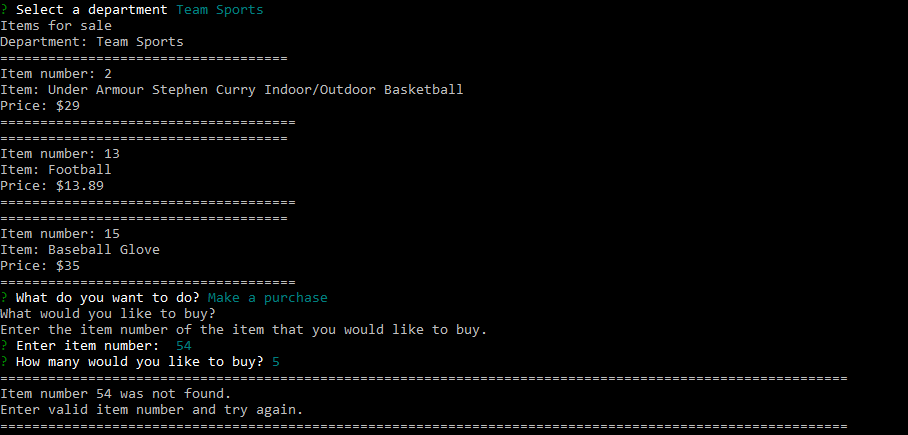
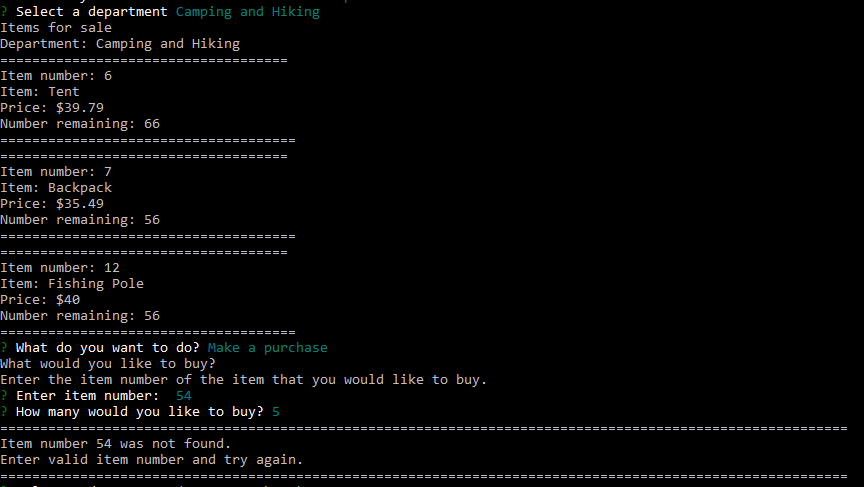
updated screenshots in readme

Changed region(s): [[0.0, 0.0, 0.9688, 0.9862]]

diff --git a/README.md b/README.md
@@ -235,11 +235,15 @@ var connection = mysql.createConnection({
 #### Insuffient quantity in stock
 <p>If the number you enter for quantity when you attempt to make a purchase is larger than the number the store currently has in stock for that product, you will receive an error message similar to the following example.</p>
 <img src="readme_images/insufficient_quantity.png">
-<p>The application will take you back to the list of departments where you can enter a different quantity or shop a different department.</p>
+<p>The application will take you back to the list of departments where you can enter a different quantity or choose a different department.</p>
 
 #### Item not found
 <p>If you enter an invalid item number (that is, item not found) when making a purchase, you will get an error message saying that the item was not found. The application will take you back to the list of departments so that you can try again.</p>
 <img src="readme_images/item_not_found.png">
+
+#### Exit store
+<p>To exit the Customer Portal, select <b>Exit store</b> from the menu.</p>
+<img src="readme_images/exit_store.png">
 
 ### <a name="manager-workflow"> Manager workflow
 <p>In the Manager Portal, a store manager can perform several tasks. They can view all products sold, view items that have low inventory, add inventory, and add a new product.</p>
@@ -279,7 +283,7 @@ var connection = mysql.createConnection({
 
 #### Accessing the Supervisor Portal
 To access the Supervisor Portal, run the following command:
-<pre>node bazamonSupervisor.js</pre>
+<pre>node bamazonSupervisor.js</pre>
 
 <p>When you run this command, you will see a list of menu options.</p>
 <img src="readme_images/supervisor_portal_menu.png">
